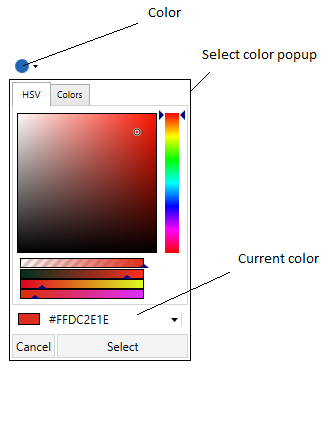
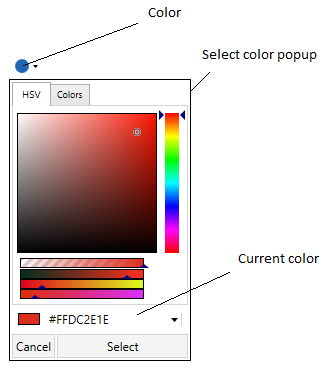
color picker image fix

diff --git a/orc.controls/colorpicker.htm b/orc.controls/colorpicker.htm
@@ -231,7 +231,7 @@
 <h1 id="colorpicker">ColorPicker<a class="headerlink" href="#colorpicker" title="Permalink to this headline"><i class="fa fa-link" aria-hidden="true"></i></a></h1>
 <p>This control allows user to choose a color. 
 <br />Inherits from <a href="https://msdn.microsoft.com/en-us/library/system.windows.controls.control(v=vs.110).aspx" target="_blank">System.Windows.Controls.Control</a>.</p>
-<p><img src="../images/orc.controls/colorpicker/ColorPicker_01.png" alt="ColorPicker 01" width="329" height="436" /></p>
+<p><img src="../images/orc.controls/colorpicker/ColorPicker_01.png" alt="ColorPicker 01" width="329" height="369" /></p>
 <h2 id="properties">Properties<a class="headerlink" href="#properties" title="Permalink to this headline"><i class="fa fa-link" aria-hidden="true"></i></a></h2>
 <table class="table table-bordered-all table-responsive">
 <thead>

diff --git a/orc.controls/animatedgif.htm b/orc.controls/animatedgif.htm
@@ -247,7 +247,7 @@
 </tbody>
 </table>
 <h2 id="how-to-use">How to use<a class="headerlink" href="#how-to-use" title="Permalink to this headline"><i class="fa fa-link" aria-hidden="true"></i></a></h2>
-<p>Place the AnimatedGif control on the parent, then specify GifSource.</p>
+<p>Place the AnimatedGif control on the parent content control, then specify GifSource.</p>
 <pre class="nocode">&lt;orc:AnimatedGif x:Name=&quot;LoadingGif&quot; 
                  Width=&quot;16&quot; 
                  Height=&quot;16&quot; 

diff --git a/src/orc.controls/animatedgif.md b/src/orc.controls/animatedgif.md
@@ -14,7 +14,7 @@ GifSource|Gets or sets gif image path
 
 ## How to use
 
-Place the AnimatedGif control on the parent, then specify GifSource.
+Place the AnimatedGif control on the parent content control, then specify GifSource.
 
 ```
 <orc:AnimatedGif x:Name="LoadingGif" 
